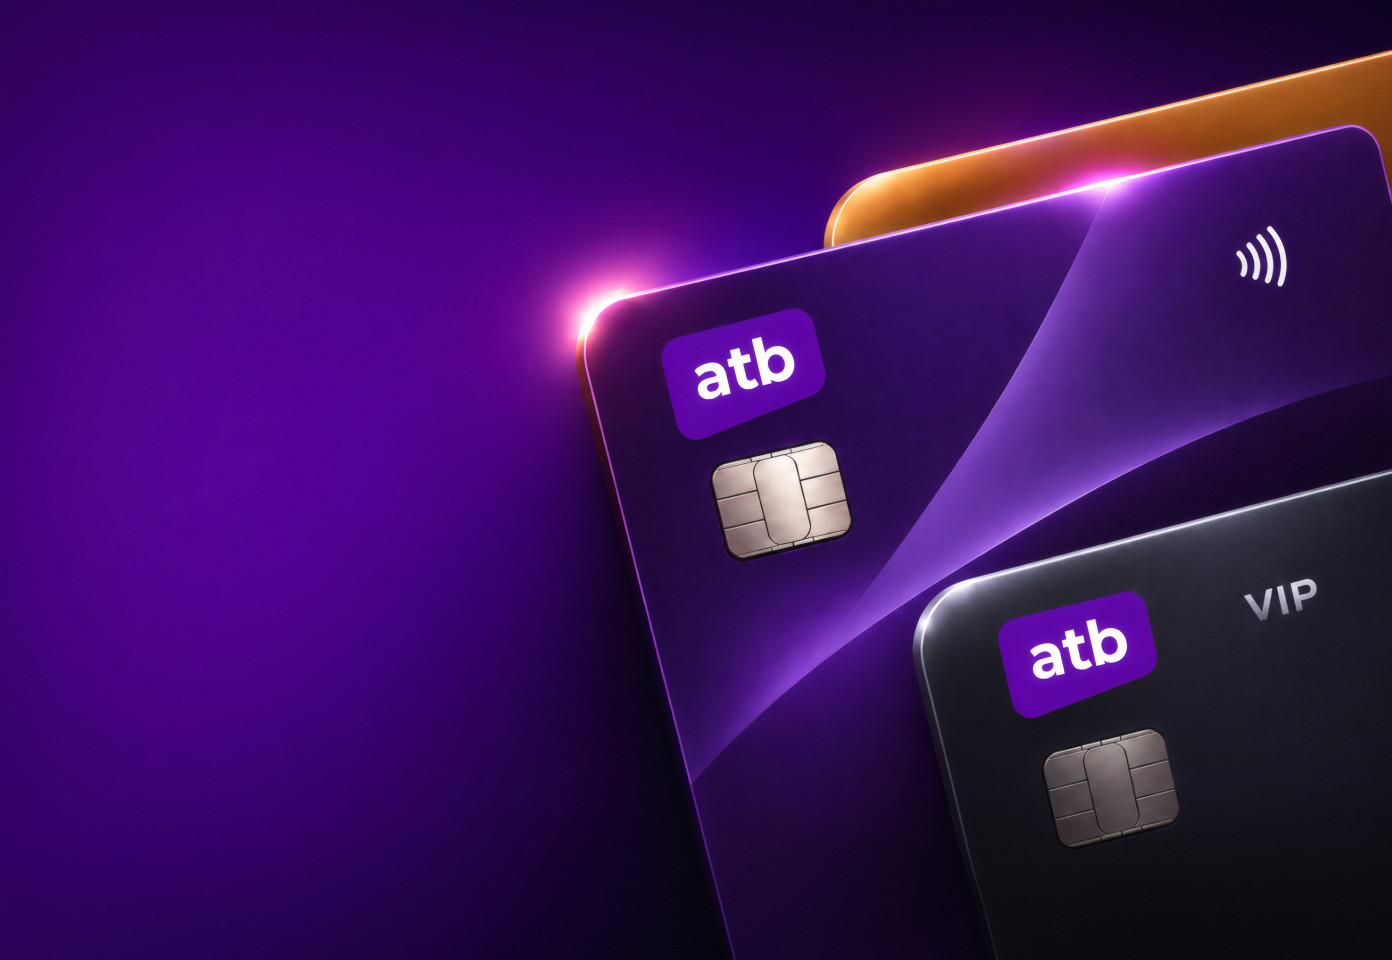
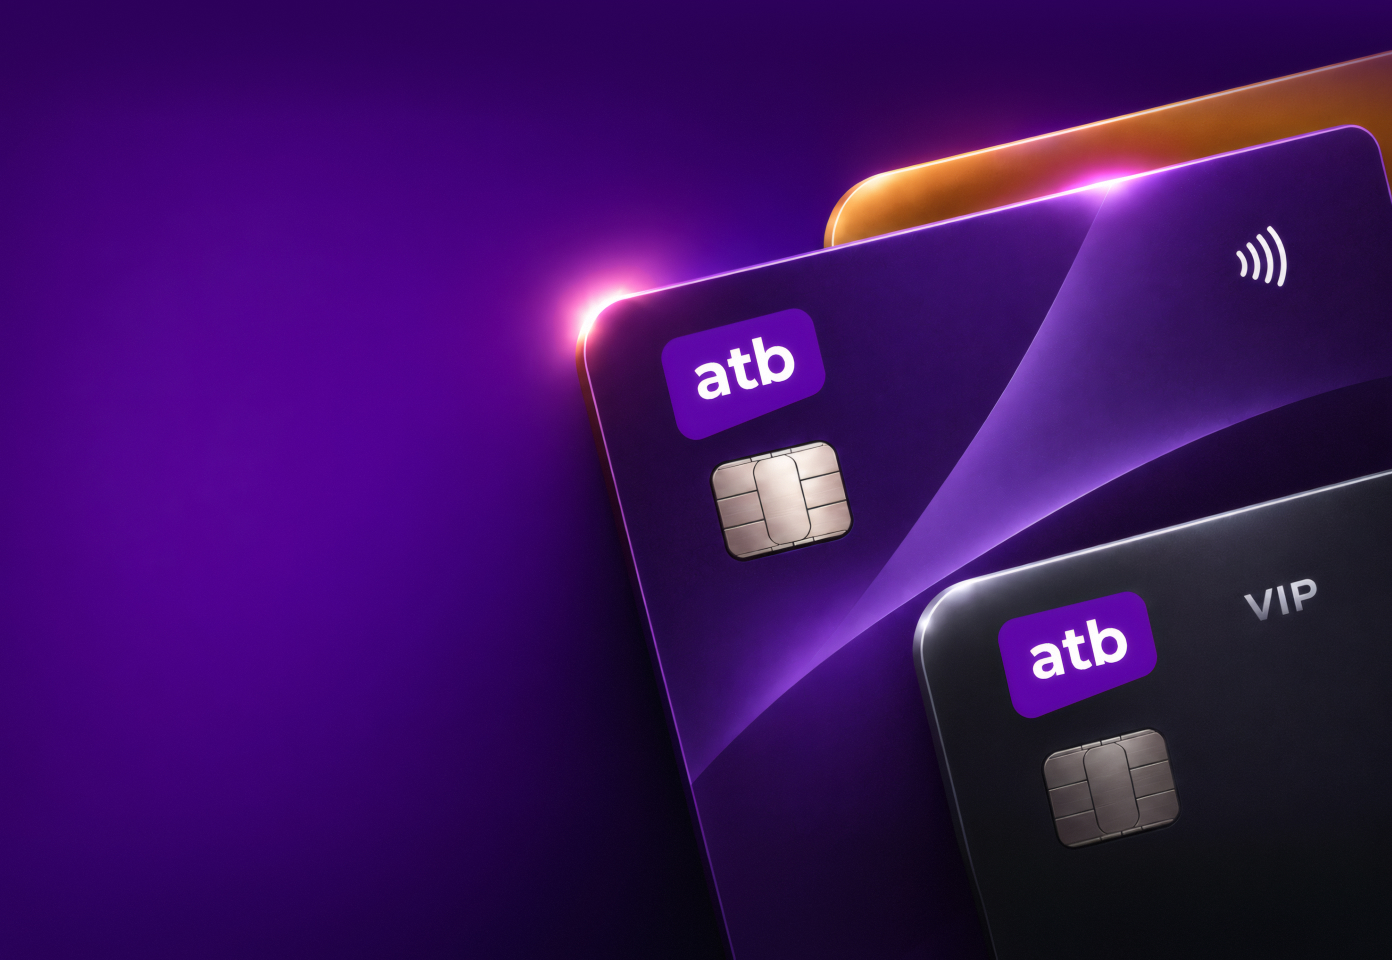
Мобильная версия по макету 375, полноэкранное меню, обновлённые картинки
- мобильная вёрстка (до 719 px) приведена к макету 375
- меню на телефоне открывается на весь экран, иконка закрытия
- обновлены картинки блоков и карточки atb360

Changed region(s): [[0.556, 0.0, 1.0, 0.125]]

diff --git a/index.html b/index.html
@@ -81,6 +81,9 @@ button{font:inherit;color:inherit;cursor:pointer}
 .lang{display:inline-flex;align-items:center;height:3rem;border:0;background:transparent;transition:background-color .15s;border-radius:0.75rem;padding:0 1rem;font-size:0.8125rem;line-height:0.975rem;font-weight:600;letter-spacing:0.0325rem;text-transform:uppercase;color:var(--purple-600)}
 .lang:hover{background:#ebddf8}
 .burger{display:none}
+.burger__close{display:none}
+.burger[aria-expanded="true"] svg{display:none}
+.burger[aria-expanded="true"] .burger__close{display:block}
 
 /* переключатель языка: список раскрывается на месте кнопки */
 .lang-wrap{position:relative;display:inline-block}
@@ -156,16 +159,16 @@ button{font:inherit;color:inherit;cursor:pointer}
 .search img{width:1.25rem;height:1.25rem}
 .card__map{flex:1;min-height:0;border-radius:1rem;overflow:hidden}
 .card__map img{width:100%;height:100%;object-fit:cover}
-.rates{width:100%;border-collapse:collapse}
+.rates{width:100%;border-collapse:collapse;line-height:normal}
 .rates th,.rates td{padding:0.625rem 0;border-bottom:1px solid var(--line);font-weight:400}
 .rates th{font-size:0.8125rem;color:var(--muted)}
-.rates td:first-child{font-size:1.125rem}
+.rates td{font-size:1rem}
 .rates th:last-child,.rates td:last-child{text-align:right}
 .rates th:first-child{text-align:left}
 .card--map{background:#f6effc}
 .card--rates{justify-content:space-between;gap:0}
 .help__top{display:flex;justify-content:space-between;align-items:flex-start}
-.help__label{font-size:0.875rem;color:var(--muted)}
+.help__label{font-size:0.875rem;line-height:normal;color:var(--muted)}
 .help__num{font-size:5rem;font-weight:600;color:var(--purple-600);line-height:normal;display:block}
 .help__img{position:relative;flex:none;width:9.375rem;height:9.375rem;overflow:hidden}
 .help__img img{width:100%;height:100%;object-fit:cover}
@@ -228,23 +231,30 @@ button{font:inherit;color:inherit;cursor:pointer}
   .wrap{padding-inline:2rem}
   .actions .btn--soft,.actions .lang{display:none}
   .burger{display:grid}
-  .menu__lang{display:flex;gap:0.5rem;padding:1rem 0 0.5rem}
-  .menu__lang button{flex:1;height:3rem;border:0;border-radius:0.75rem;background:var(--purple-50);color:var(--purple-600);font:inherit;font-size:0.875rem;font-weight:600;letter-spacing:0.0325rem;text-transform:uppercase;cursor:pointer}
+  .menu__lang{display:flex;justify-content:center;gap:0.5rem;padding:1rem 0 0.5rem;margin-top:auto}
+  .menu__lang button{flex:none;padding:1rem;line-height:1;border:0;border-radius:0.75rem;background:var(--purple-50);color:var(--purple-600);font:inherit;font-size:0.875rem;line-height:1;font-weight:600;letter-spacing:0.0325rem;text-transform:uppercase;cursor:pointer}
   .menu__lang button[aria-current="true"]{background:var(--purple-100)}
-  .menu{display:none;position:absolute;left:0;right:0;top:100%;background:#fff;border-bottom:1px solid var(--line);max-height:calc(100vh - var(--header-h));overflow-y:auto;padding:0.5rem 1.5rem 1rem}
-  .menu.is-open{display:block}
+  /* меню открывается на весь экран под шапкой */
+  .menu{display:none;position:fixed;left:0;right:0;top:var(--header-h);bottom:0;flex-direction:column;background:#fff;overflow-y:auto;overscroll-behavior:contain;padding:0.5rem 1.5rem 1rem}
+  .menu.is-open{display:flex}
+  .header.is-menu-open{transition:none;background:#fff!important;-webkit-backdrop-filter:none!important;backdrop-filter:none!important}
+  html.menu-open,html.menu-open body{overflow:hidden}
   .menu__list{flex-direction:column;gap:0}
   .menu__item{border-bottom:1px solid var(--line)}
-  .menu__btn{width:100%;justify-content:space-between;border-radius:0;padding:1rem 0;font-size:1.125rem}
+  .menu__btn{width:100%;justify-content:space-between;border-radius:0;padding:1.5rem 0;font-size:1.125rem;line-height:1}
   .menu__btn:hover,.menu__btn[aria-expanded="true"]{background:none;color:var(--ink)}
-  .menu__chev{display:block}
+  .menu__chev{display:block;color:var(--purple-600)}
   .menu__btn[aria-expanded="true"] .menu__chev{transform:rotate(180deg)}
   .mega{position:static;display:none;visibility:visible;opacity:1;transform:none;pointer-events:auto;box-shadow:none;border:0;max-height:none;overflow:visible}
   .menu__btn[aria-expanded="true"]+.mega{display:block}
   .mega__in{display:block;padding:0 0 1rem}
   .mega__col{padding:0;gap:1rem;margin-bottom:1rem}
   .mega__promos{border:0;padding:0;gap:1.25rem}
-  .mega__group li a{padding:0.625rem 0}
+  .mega__group h3,.mega--about .mega__group h3{margin-bottom:0.5rem;line-height:1}
+  .mega--about .mega__in{padding-bottom:1rem}
+  .mega__col:last-child{margin-bottom:0}
+  .mega__group li a{padding:0.625rem 0;line-height:1}
+  .promo h3,.promo p{line-height:1}
   .header__in{padding-inline:1.5rem}
   .banner__copy{left:3rem}
   .block__title,.block__text{left:3rem}
@@ -259,34 +269,79 @@ button{font:inherit;color:inherit;cursor:pointer}
 }
 /* телефон */
 @media (max-width:719px){
-  :root{--header-h:4.5625rem}
+  :root{--header-h:4.5rem}
   .wrap{padding-inline:1rem}
   .header__in{padding:0.75rem 1rem;gap:0.75rem}
-  .logo img{height:2.5rem}
-  .banner__bg{background-position:70% center}
-  .banner__copy{left:1rem;right:1rem;width:auto;top:6rem;transform:none}
-  .banner__title{font-size:2.125rem}
+  .header__in .icon-btn{width:2.5rem;height:2.5rem}
+  .logo img{height:3rem}
+  /* баннер */
+  .banner__bg{background-color:#f7f5fa;background-size:auto 107%;background-position:calc(84% - 2.5rem) calc(50% + 5rem)}
+  .banner__copy{left:1rem;right:1rem;width:auto;top:calc(var(--header-h) + 2.5rem);transform:none}
+  .banner__title{font-size:2.125rem;line-height:2.375rem;letter-spacing:-0.0531rem}
   .banner__arrows{bottom:1.5rem}
-  .stack{padding:1rem 0.75rem 0}
-    :root{--step:1.5rem;--bh-max:32.5rem}
-  .block__title{left:1.5rem;top:2rem;font-size:1.875rem}
-  .block__text{left:1.5rem;right:1.5rem;top:5rem;width:auto}
-  .app{padding:1.5rem 0}
-  .app__card{height:auto;min-height:35rem;background-position:70% center}
-  .app__copy{position:static;transform:none;width:auto;height:auto;padding:2rem 1.5rem;gap:2rem}
-  .app__title{font-size:3rem;line-height:1}
-  .cards3,.cards2,.news__list{grid-template-columns:1fr}
-  .card{height:auto;min-height:20rem;padding:1.5rem}
-  .card__map{min-height:10rem}
-  .help__num{font-size:3.5rem}
-  .news__item{height:auto}
-  .news__img{height:auto;aspect-ratio:4/5}
-  .h2{font-size:1.625rem;line-height:1.2}
+  /* стопка блоков */
+  .stack{padding:2.5rem 0.75rem 2.5rem}
+  :root{--step:1.5rem;--bh-max:32.5rem;--bh:32.5rem;--ov:2.5rem}
+  .block,.block:last-child{border-radius:1.5rem;box-shadow:0 -0.625rem 2.5rem rgba(28,16,48,.12)}
+  .block__bg{background-size:34.375rem auto;background-position:right 0 bottom 0.3rem}
+  .block--cards{background-color:#2c005a}
+  .block--deposit{background-color:#dabaf9}
+  .block--mortgage{background-color:#a0b2f4}
+  .block--payments{background-color:#f8c494}
+  .block__title{left:1.5rem;right:1.5rem;top:2rem;font-size:1.875rem;line-height:2.25rem;letter-spacing:-0.028rem;white-space:normal}
+  .block__text{left:1.5rem;right:1.5rem;top:5.25rem;width:auto}
+  .block__cat,.block--cards .block__cat{font-size:1.25rem;line-height:1.25rem}
+  /* atb360 */
+  .app{padding:0.75rem 1.5rem}
+  .app__card{height:auto;padding:1.5rem 1.5rem 16.125rem;background:#311054 url(img/app-card.jpg) right 0 bottom -2.6rem/34.375rem auto no-repeat}
+  .app__card::before{content:"";position:absolute;left:-4rem;top:-11rem;width:28.4375rem;height:28.4375rem;border-radius:50%;background:#9f43bd;opacity:.7;filter:blur(100px);pointer-events:none}
+  .app__copy{position:relative;top:auto;left:auto;transform:none;width:auto;height:auto;padding:0;gap:2rem}
+  .app__top{gap:1.5rem}
+  .eyebrow{display:none}
+  .app__title{font-size:3rem;line-height:3rem;letter-spacing:-0.045rem}
+  .app__list li{font-size:0.875rem;line-height:1.5}
+  .stores .btn{white-space:nowrap;padding-inline:1.375rem}
+  /* рядом и на связи */
+  .near .h2,.doors .h2{margin-bottom:1.5rem}
+  .cards3,.cards2{grid-template-columns:1fr}
+  .cards3{gap:1rem}
+  .card{height:auto;min-height:0;padding:1.5rem}
+  .card--rates,.card--help{gap:0.75rem}
+  .card--rates h3{margin-bottom:0.75rem!important}
+  .card h3{line-height:1.25}
+  .door__text h3{line-height:1.5625rem}
+  .card--map,.card--rates,.card--help,.door,.news__item,.search{outline:1px solid var(--line);outline-offset:-1px}
+  .card--map,.card--rates{outline-color:#fff}
+  .card--help{outline-color:var(--purple-100)}
+  .card__map{flex:none;height:10rem}
+  .rates th{font-size:0.75rem}
+  .help__num{font-size:3.5rem;line-height:1}
+  .help__img{width:6.875rem;height:6.875rem}
+  .link{gap:0.375rem;font-size:0.875rem;line-height:1}
+  /* другие направления */
+  .door__photo{height:13.75rem}
+  .door__text{padding:1rem 1.5rem;gap:0.75rem}
+  .tags{padding:0}
+  .tags li{padding:0.5rem 0.75rem}
+  /* новости: горизонтальная лента карточек */
+  .h2{font-size:1.625rem;line-height:1.9375rem;letter-spacing:-0.0244rem}
+  .news__head{margin-bottom:1.5rem}
   .news__ctrl .link{display:none}
-  .footer{padding:2.5rem 1rem 1.5rem}
-  .footer__links{grid-template-columns:1fr 1fr}
-  .footer__partners{gap:1rem 1.5rem}
+  .news__list{display:flex;gap:1rem;overflow-x:auto;overscroll-behavior-x:contain;scroll-snap-type:x mandatory;margin-inline:-1rem;padding:0 1rem;scroll-padding-inline:1rem;scrollbar-width:none}
+  .news__list::-webkit-scrollbar{display:none}
+  .news__list>li{flex:none;width:20.25rem;scroll-snap-align:start}
+  .news__item{height:auto}
+  .news__img{height:26.3125rem}
+  /* подвал */
+  .footer{padding:2.5rem 1rem 1.5rem;gap:2rem}
+  .footer__links{grid-template-columns:1fr 1fr;gap:2rem 1.5rem}
+  .footer__bottom{align-items:stretch}
+  .footer__legal{display:contents}
+  .footer__partners{order:0;justify-content:center;gap:1rem 1.5rem}
   .footer__partners img{height:2rem}
+  .footer__social{order:1;justify-content:center}
+  .footer__text{order:2;line-height:0.875rem}
+  .footer li:last-child a{padding-bottom:0}
 }
 /* появление при прокрутке: из прозрачности со сдвигом вверх (включается скриптом, без него всё видно сразу) */
 .js [data-reveal]{opacity:0;transform:translate3d(0,1.5rem,0);transition:opacity .7s ease-out var(--d,0s),transform .8s cubic-bezier(.23,1,.32,1) var(--d,0s)}
@@ -384,7 +439,7 @@ button{font:inherit;color:inherit;cursor:pointer}
       <button class="icon-btn" type="button" aria-label="Поиск по сайту"><img src="img/icon-search.png" alt=""></button>
       <a class="btn btn--soft" href="#">Войти в atb360</a>
       <div class="lang-wrap" id="langwrap"><button class="lang" type="button" aria-label="Язык" aria-haspopup="true" aria-expanded="false" aria-controls="langlist"><span class="lang__cur">РУ</span></button><ul class="lang__list" id="langlist"><li><button class="lang__opt" type="button" data-lang="en" lang="en">EN</button></li><li><button class="lang__opt" type="button" data-lang="az" lang="az">AZ</button></li><li><button class="lang__opt" type="button" data-lang="ru" lang="ru">РУ</button></li></ul></div>
-      <button class="icon-btn burger" type="button" aria-label="Меню"><svg width="20" height="20" viewBox="0 0 24 24" fill="none" stroke="currentColor" stroke-width="2" stroke-linecap="round"><path d="M4 7h16M4 12h16M4 17h16"/></svg></button>
+      <button class="icon-btn burger" type="button" aria-label="Меню"><svg width="20" height="20" viewBox="0 0 24 24" fill="none" stroke="currentColor" stroke-width="2" stroke-linecap="round"><path d="M4 7h16M4 12h16M4 17h16"/></svg><img class="burger__close" src="img/icon-close.png" alt=""></button>
     </div>
   </div>
 </header>
@@ -592,12 +647,15 @@ button{font:inherit;color:inherit;cursor:pointer}
 (function(){
   var btns=[].slice.call(document.querySelectorAll('.menu__btn')),menu=document.getElementById('menu'),burger=document.querySelector('.burger');
   function closeAll(){btns.forEach(function(b){b.setAttribute('aria-expanded','false')})}
+  var mobile=window.matchMedia('(max-width:1199px)'),root=document.documentElement,hdr=document.querySelector('.header');
+  function setMenu(o){menu.classList.toggle('is-open',o);burger.setAttribute('aria-expanded',String(o));root.classList.toggle('menu-open',o);hdr.classList.toggle('is-menu-open',o);if(!o)closeAll()}
   btns.forEach(function(b){b.addEventListener('click',function(e){
-    e.stopPropagation();var open=b.getAttribute('aria-expanded')==='true';closeAll();b.setAttribute('aria-expanded',String(!open));
+    e.stopPropagation();var open=b.getAttribute('aria-expanded')==='true';if(!mobile.matches)closeAll();b.setAttribute('aria-expanded',String(!open));
   })});
-  burger.addEventListener('click',function(e){e.stopPropagation();var o=menu.classList.toggle('is-open');burger.setAttribute('aria-expanded',String(o));if(!o)closeAll()});
+  burger.addEventListener('click',function(e){e.stopPropagation();setMenu(!menu.classList.contains('is-open'))});
+  mobile.addEventListener('change',function(m){if(!m.matches)setMenu(false)});
   document.addEventListener('click',function(e){if(!e.target.closest('.header'))closeAll()});
-  document.addEventListener('keydown',function(e){if(e.key==='Escape'){closeAll();menu.classList.remove('is-open');burger.setAttribute('aria-expanded','false')}});
+  document.addEventListener('keydown',function(e){if(e.key==='Escape'){setMenu(false)}});
 })();
 </script>
 <script>
@@ -728,6 +786,20 @@ button{font:inherit;color:inherit;cursor:pointer}
   try{start=m?m[1]:(localStorage.getItem(KEY)||'ru')}catch(e){start=m?m[1]:'ru'}
   if(!/^(en|az|ru)$/.test(start)) start='ru';
   apply(start);
+})();
+
+(function(){
+  var list=document.querySelector('.news__list'),ctrl=document.querySelector('.news__ctrl');
+  if(!list||!ctrl)return;
+  var b=ctrl.querySelectorAll('.arrow'),prev=b[0],next=b[1];
+  function can(){return list.scrollWidth>list.clientWidth+1}
+  function upd(){if(!can())return;prev.disabled=list.scrollLeft<=1;next.disabled=list.scrollLeft+list.clientWidth>=list.scrollWidth-1}
+  function go(d){if(!can())return;var li=list.firstElementChild;list.scrollBy({left:d*(li.offsetWidth+16),behavior:'smooth'})}
+  prev.addEventListener('click',function(){go(-1)});
+  next.addEventListener('click',function(){go(1)});
+  list.addEventListener('scroll',upd,{passive:true});
+  window.addEventListener('resize',upd);
+  upd();
 })();
 </script>
 </body>
